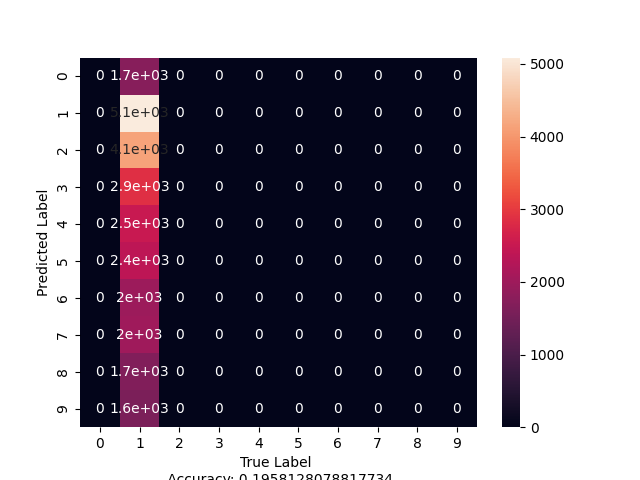
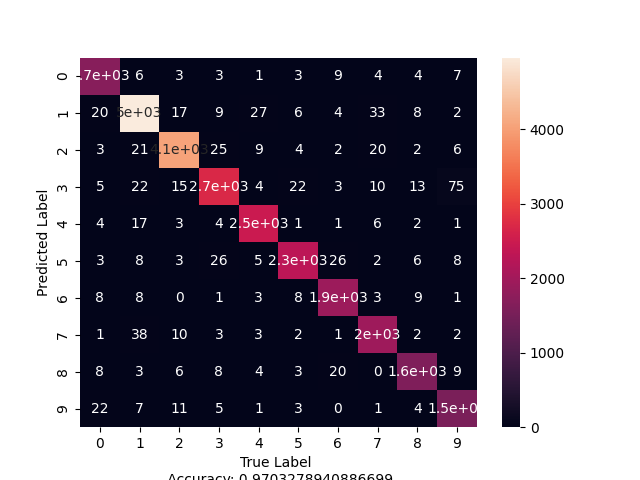
svhn hyperparameters updated

diff --git a/Monolithic Architectures/ConvNeXt/convnext.py b/Monolithic Architectures/ConvNeXt/convnext.py
@@ -178,9 +178,9 @@ def get_hyperparameters(dataset):
 
     elif(dataset == "svhn"):
         epochs = 10
-        learning_rate = 1e-2
+        learning_rate = 0.5e-5
         betas = (0.9, 0.99)
-        weight_decay = 0
+        weight_decay = 1e-4
 
     return epochs, learning_rate, betas, weight_decay
 
